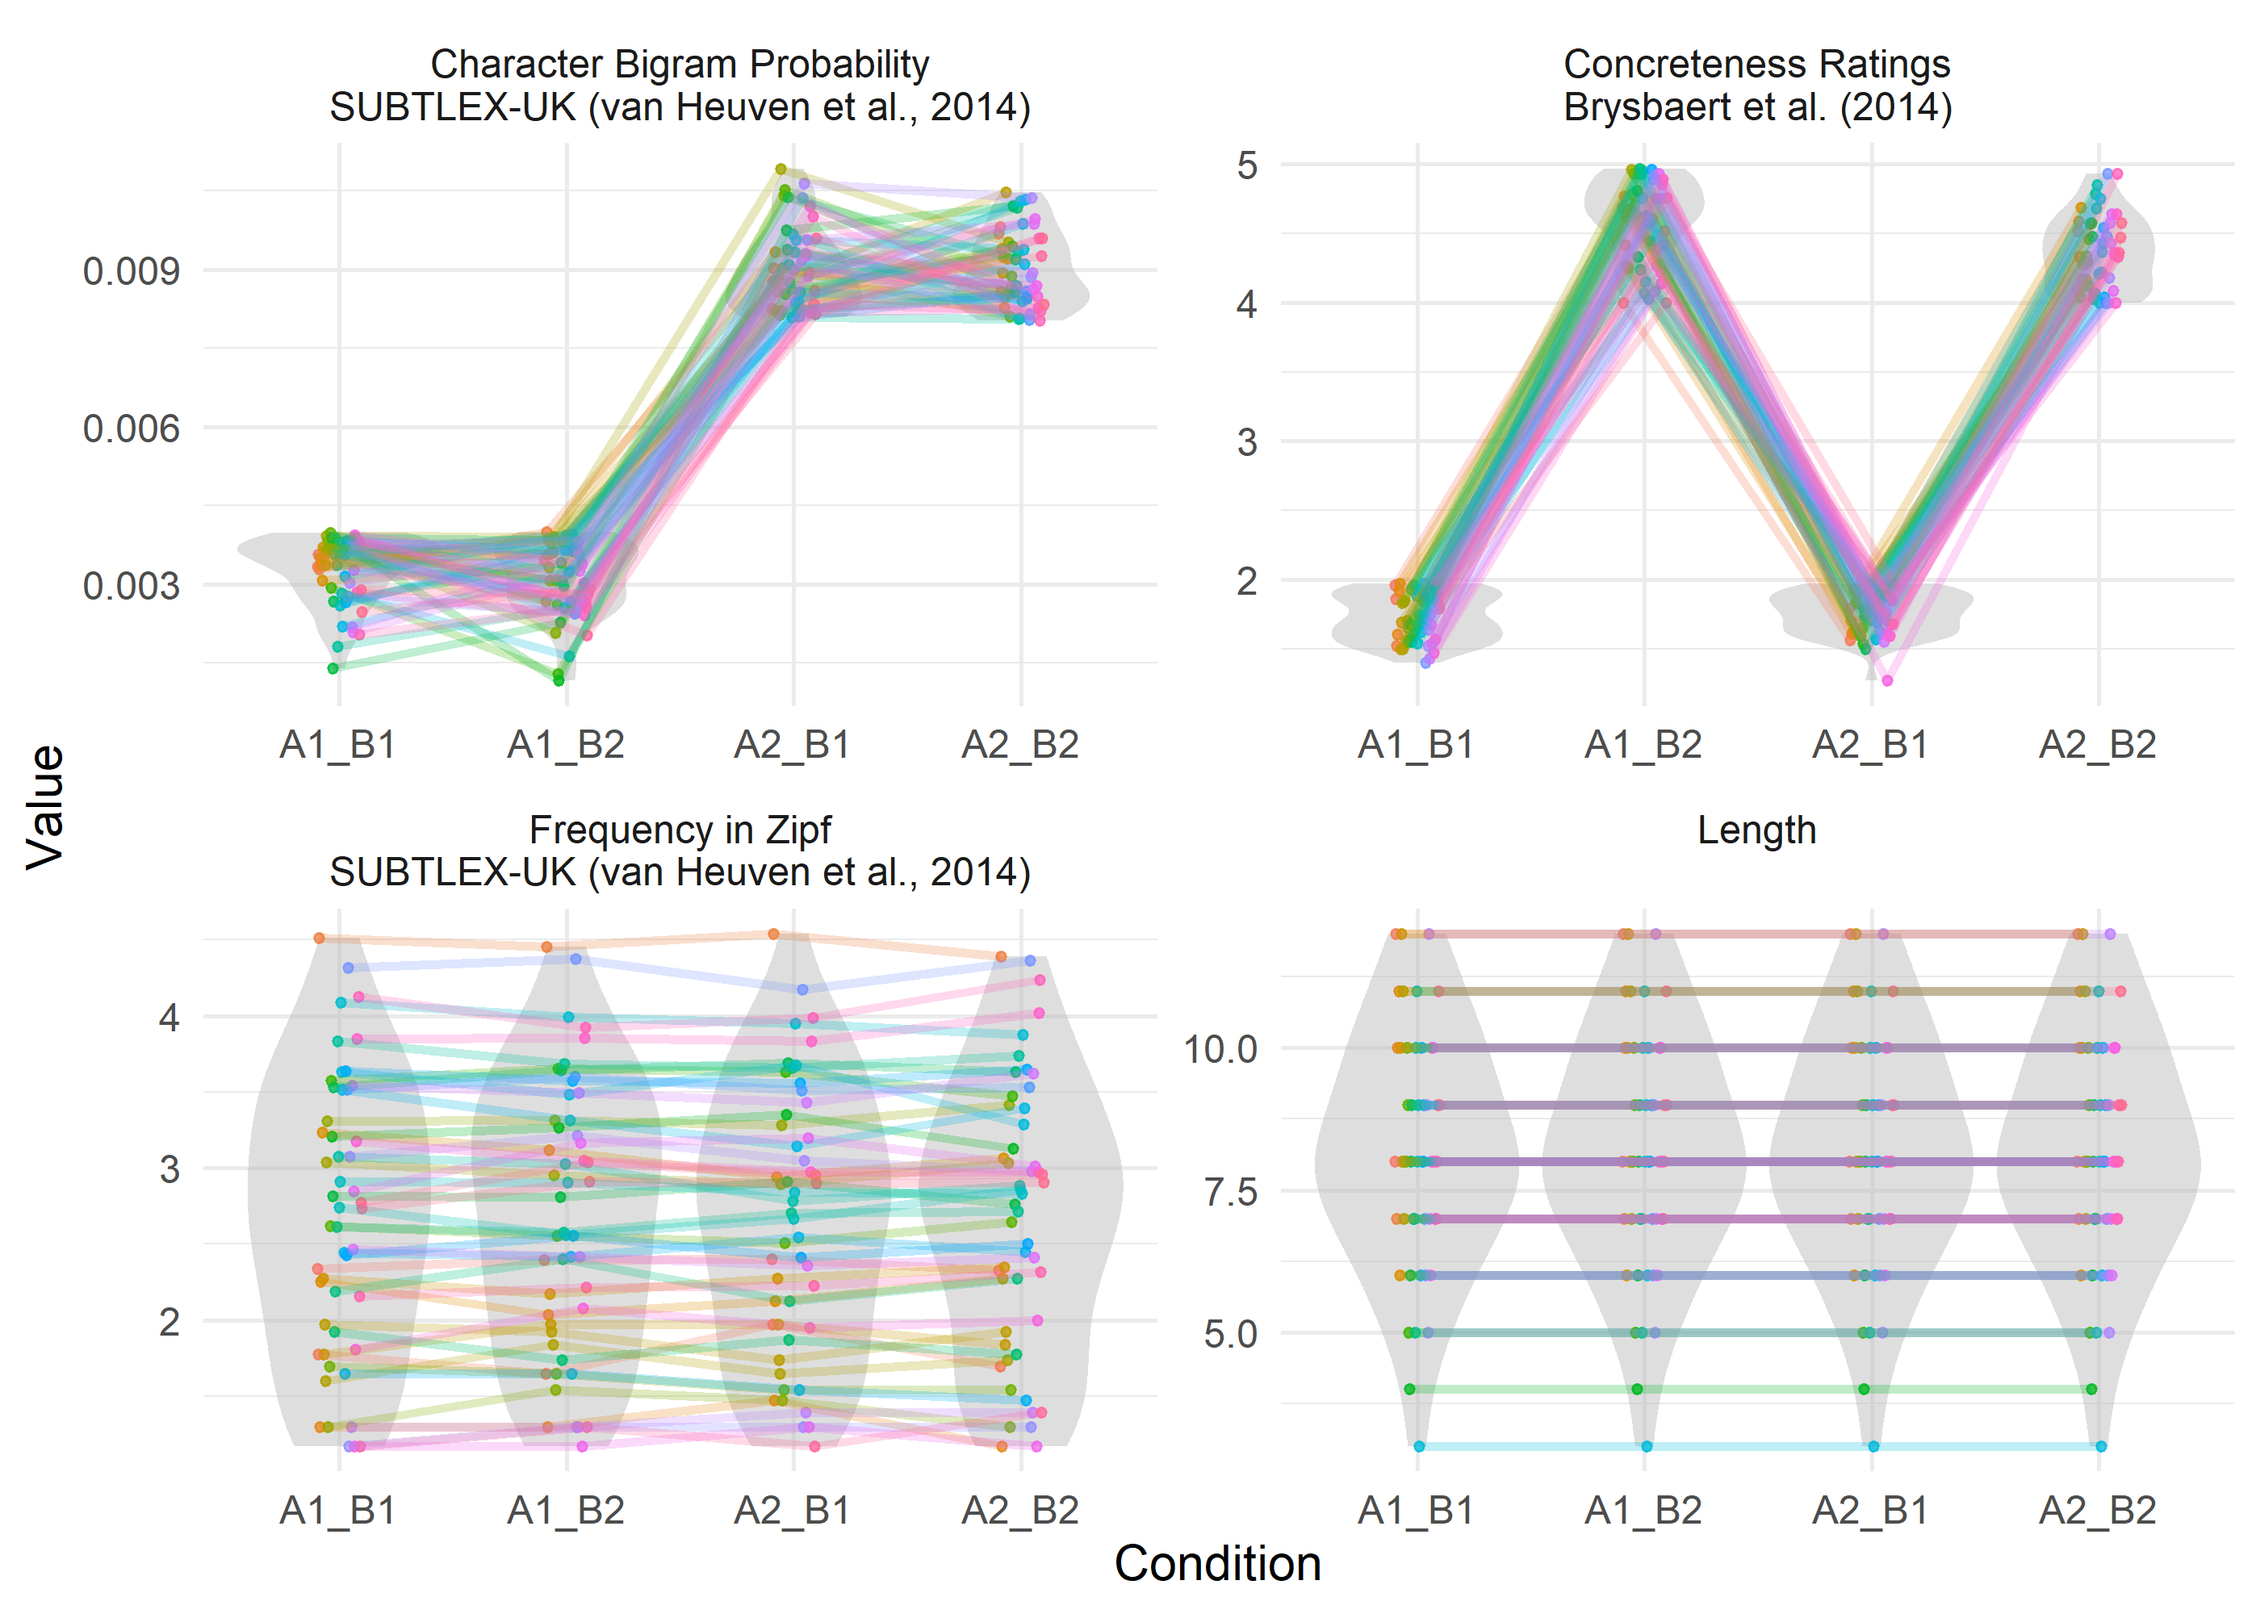
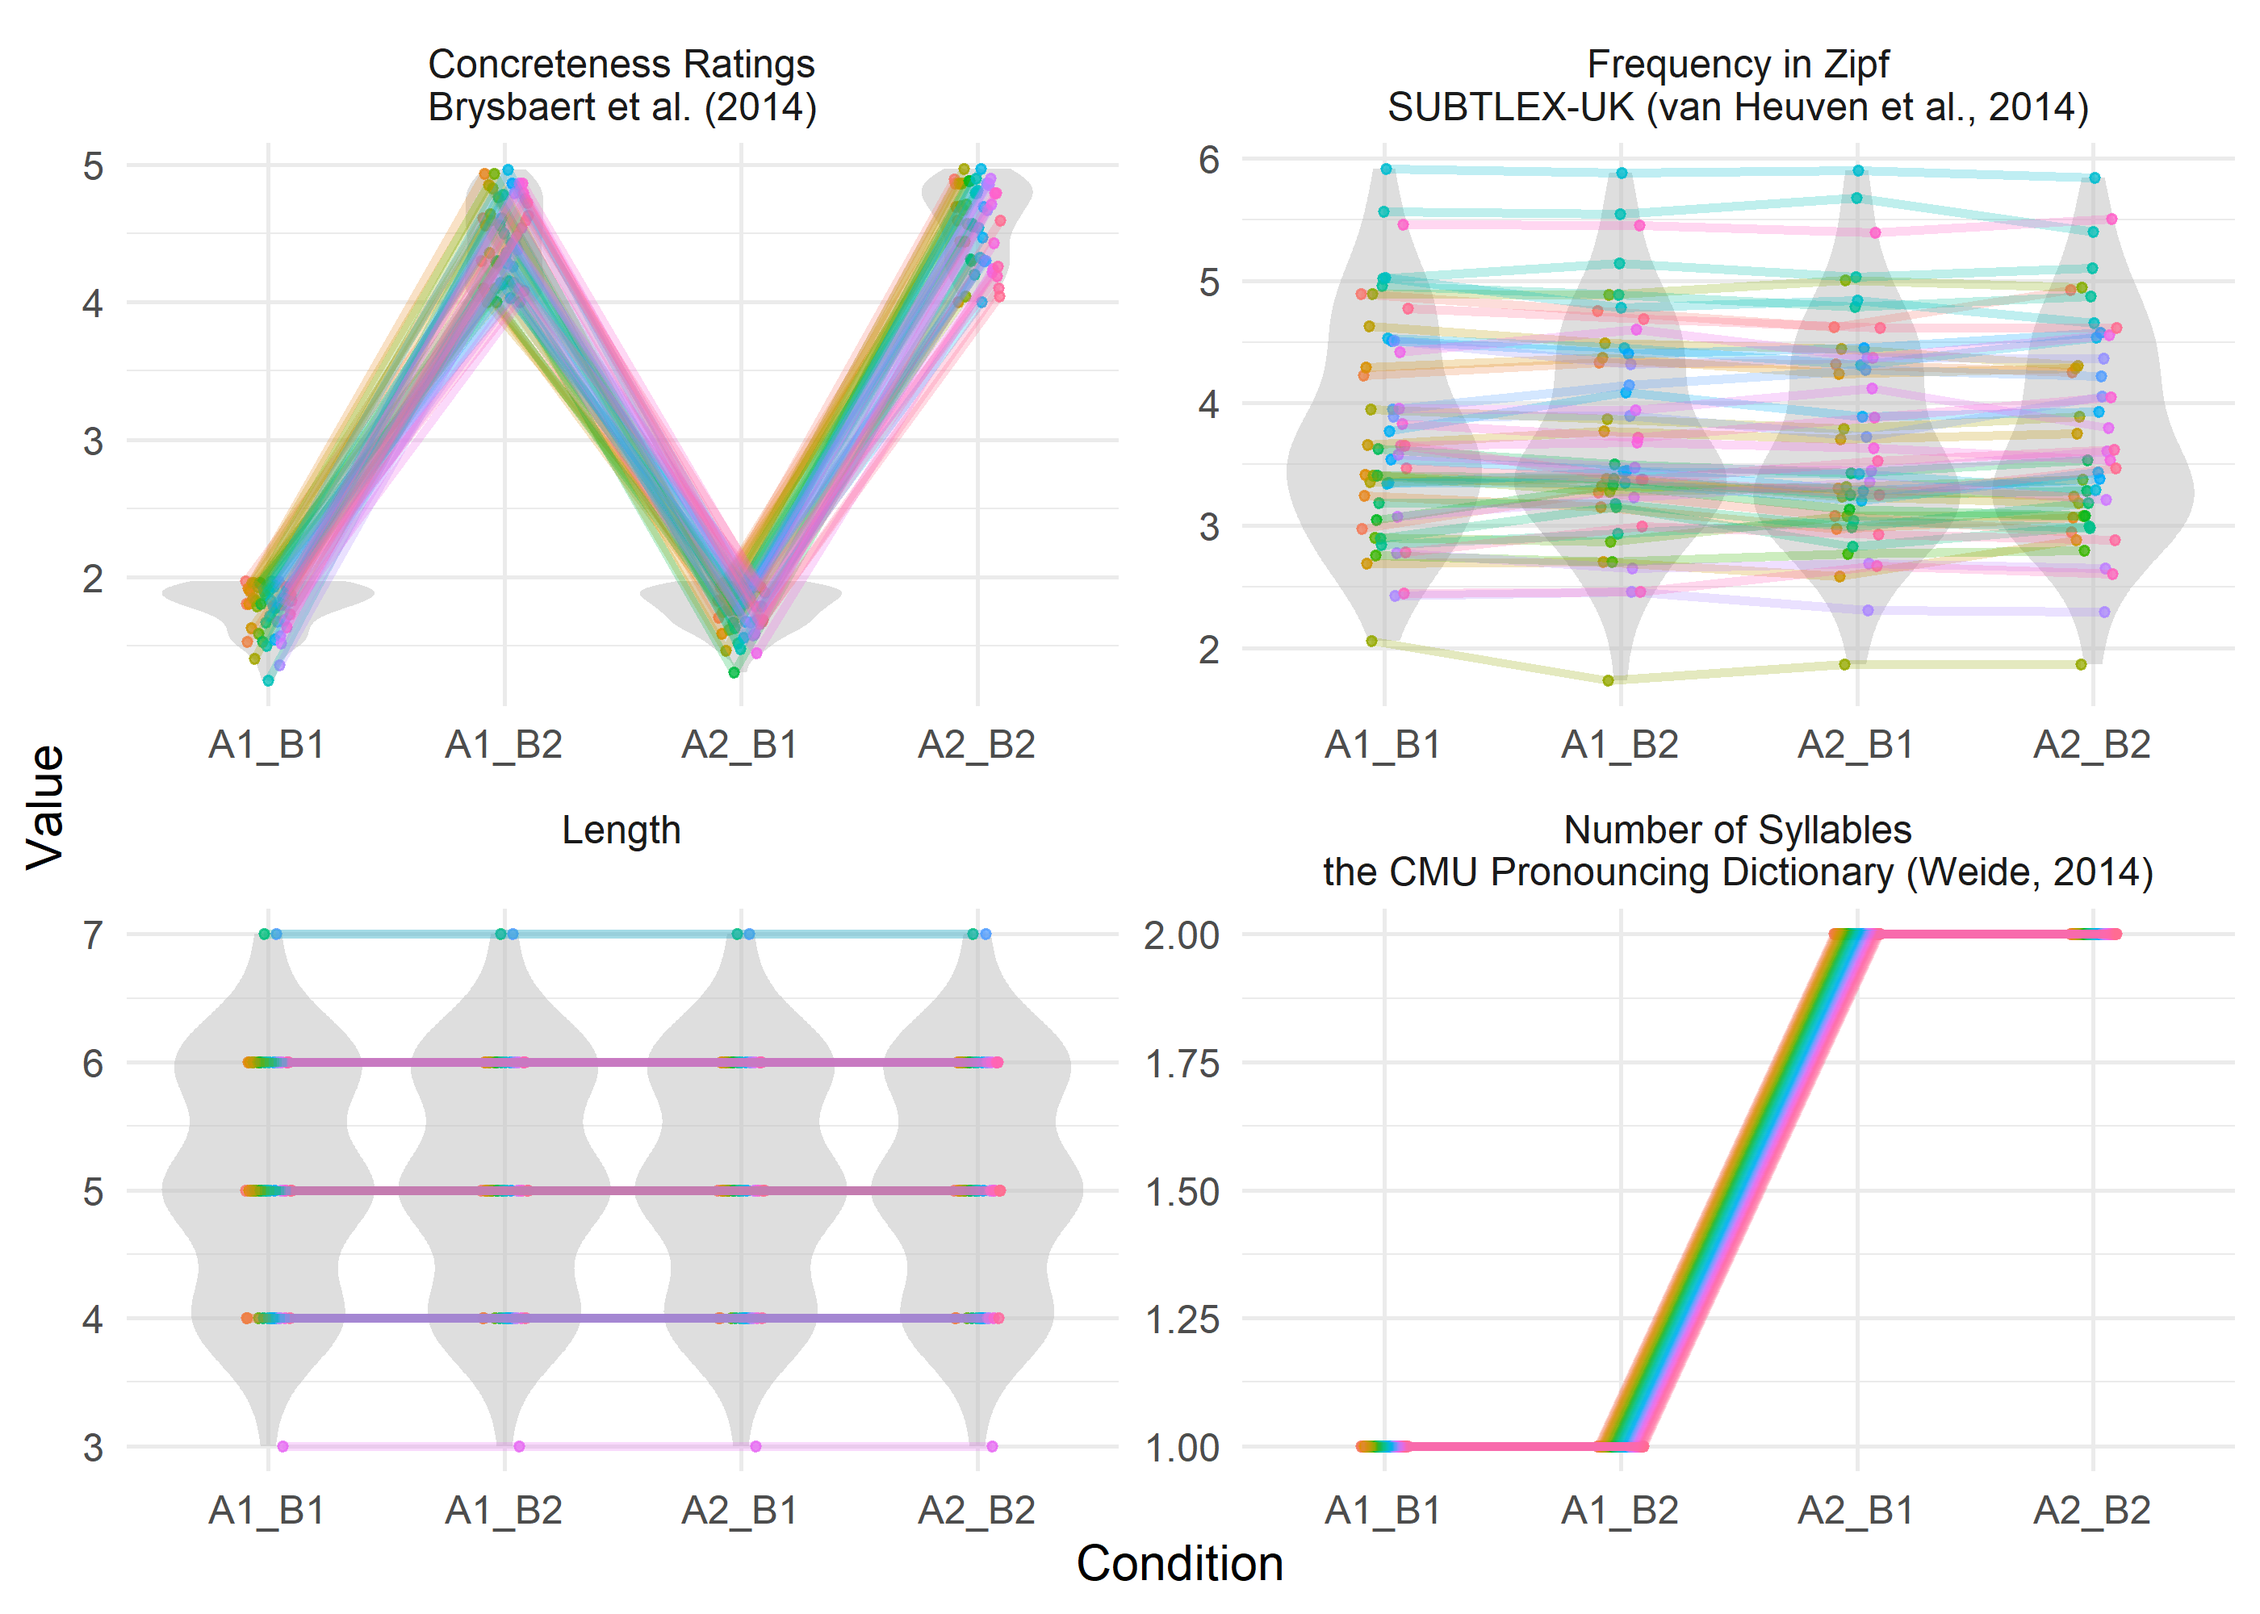
fix minimal example

diff --git a/README.md b/README.md
@@ -7,7 +7,7 @@
 
 [![Lifecycle:
 stable](https://img.shields.io/badge/lifecycle-stable-brightgreen.svg)](https://www.tidyverse.org/lifecycle/#stable)
-[![Version: 0.2.3](https://img.shields.io/badge/version-0.2.3-blue.svg)](https://github.com/JackEdTaylor/LexOPS/releases)
+[![Version: 0.2.4](https://img.shields.io/badge/version-0.2.4-blue.svg)](https://github.com/JackEdTaylor/LexOPS/releases)
 [![DOI: 10.3758/s13428-020-01389-1](https://zenodo.org/badge/DOI/10.3758/s13428-020-01389-1.svg)](https://doi.org/10.3758/s13428-020-01389-1)
 <!-- badges: end -->
 
@@ -39,35 +39,23 @@ LexOPS makes it easy to generate matched stimuli in a reproducible way.
 
 ### The “Generate Pipeline”
 
-The following example pipeline generates 50 words (all nouns) per
-condition (200 words in total), for a study with a 2 x 2, concreteness
-(low, high) by bigram probability (low, high) experimental design. Words
-are controlled for by length exactly, and by word frequency within a
-tolerance of ±0.2 Zipf.
+The following example pipeline generates 50 words per condition (200 in
+total), for a study with a 2 x 2, syllables (1, 2) by concreteness (low,
+high) design. Words are matched by length exactly, and by word frequency
+within a tolerance of ±0.2 Zipf.
 
 ``` r
 library(LexOPS)
 
-# generate stimuli
 stim <- lexops %>%
-  subset(PoS.SUBTLEX_UK == "noun") %>%
-  split_by(BG.SUBTLEX_UK, 0.001:0.004 ~ 0.008:0.011) %>%
+  split_by(Syllables.CMU, 1:1 ~ 2:2) %>%
   split_by(CNC.Brysbaert, 1:2 ~ 4:5) %>%
   control_for(Zipf.SUBTLEX_UK, -0.2:0.2) %>%
   control_for(Length) %>%
   generate(n = 50, match_null = "balanced")
 ```
 
-    #> Generated 5/50 (10%). 6 total iterations, 0.83 success rate.
-    #> Generated 10/50 (20%). 12 total iterations, 0.83 success rate.
-    #> Generated 15/50 (30%). 19 total iterations, 0.79 success rate.
-    #> Generated 20/50 (40%). 27 total iterations, 0.74 success rate.
-    #> Generated 25/50 (50%). 39 total iterations, 0.64 success rate.
-    #> Generated 30/50 (60%). 46 total iterations, 0.65 success rate.
-    #> Generated 35/50 (70%). 52 total iterations, 0.67 success rate.
-    #> Generated 40/50 (80%). 84 total iterations, 0.48 success rate.
-    #> Generated 45/50 (90%). 100 total iterations, 0.45 success rate.
-    #> Generated 50/50 (100%). 117 total iterations, 0.43 success rate.
+    #> Generated 50/50 (100%). 157 total iterations, 0.32 success rate.
 
 A preview of what was generated:
 
@@ -78,13 +66,13 @@ stim %>%
   knitr::kable()
 ```
 
-| item\_nr | A1\_B1       | A1\_B2       | A2\_B1       | A2\_B2       | match\_null |
-| -------: | :----------- | :----------- | :----------- | :----------- | :---------- |
-|        1 | smugness     | dumbbell     | monotony     | fastener     | A1\_B2      |
-|        2 | gracefulness | spectrograph | predominance | thundercloud | A1\_B1      |
-|        3 | purpose      | cricket      | version      | chamber      | A1\_B1      |
-|        4 | imprudence   | plexiglass   | creepiness   | cowcatcher   | A1\_B1      |
-|        5 | agoraphobia  | brushstroke  | insinuation  | parishioner  | A2\_B1      |
+| item\_nr | A1\_B1 | A1\_B2 | A2\_B1 | A2\_B2 | match\_null |
+| -------: | :----- | :----- | :----- | :----- | :---------- |
+|        1 | fresh  | frame  | basis  | river  | A1\_B2      |
+|        2 | gist   | cuff   | akin   | tuba   | A2\_B1      |
+|        3 | fate   | slip   | rely   | lily   | A1\_B1      |
+|        4 | shrewd | wrench | equate | muzzle | A2\_B2      |
+|        5 | famed  | reins  | ethic  | totem  | A2\_B1      |
 
 ### Review Generated Stimuli
 
@@ -109,28 +97,28 @@ long_format(stim) %>%
   knitr::kable()
 ```
 
-| item\_nr | condition | match\_null | string       | Zipf.SUBTLEX\_UK | Length | BG.SUBTLEX\_UK | CNC.Brysbaert |
-| -------: | :-------- | :---------- | :----------- | ---------------: | -----: | -------------: | ------------: |
-|        1 | A1\_B1    | A1\_B2      | smugness     |         2.339188 |      8 |      0.0033250 |          1.96 |
-|        1 | A1\_B2    | A1\_B2      | dumbbell     |         2.394706 |      8 |      0.0034583 |          4.69 |
-|        1 | A2\_B1    | A1\_B2      | monotony     |         2.403306 |      8 |      0.0082586 |          1.79 |
-|        1 | A2\_B2    | A1\_B2      | fastener     |         2.329204 |      8 |      0.0096918 |          4.10 |
-|        2 | A1\_B1    | A1\_B1      | gracefulness |         1.774917 |     12 |      0.0035692 |          1.86 |
-|        2 | A1\_B2    | A1\_B1      | spectrograph |         1.649978 |     12 |      0.0026646 |          4.00 |
-|        2 | A2\_B1    | A1\_B1      | predominance |         1.974489 |     12 |      0.0087761 |          1.56 |
-|        2 | A2\_B2    | A1\_B1      | thundercloud |         1.695736 |     12 |      0.0098056 |          4.52 |
-|        3 | A1\_B1    | A1\_B1      | purpose      |         4.511181 |      7 |      0.0032840 |          1.52 |
-|        3 | A1\_B2    | A1\_B1      | cricket      |         4.452220 |      7 |      0.0039900 |          4.77 |
-|        3 | A2\_B1    | A1\_B1      | version      |         4.536782 |      7 |      0.0090194 |          1.70 |
-|        3 | A2\_B2    | A1\_B1      | chamber      |         4.391917 |      7 |      0.0085878 |          4.59 |
-|        4 | A1\_B1    | A1\_B1      | imprudence   |         1.297796 |     10 |      0.0034965 |          1.60 |
-|        4 | A1\_B2    | A1\_B1      | plexiglass   |         1.297796 |     10 |      0.0035633 |          4.42 |
-|        4 | A2\_B1    | A1\_B1      | creepiness   |         1.473887 |     10 |      0.0082210 |          1.61 |
-|        4 | A2\_B2    | A1\_B1      | cowcatcher   |         1.172857 |     10 |      0.0093999 |          4.33 |
-|        5 | A1\_B1    | A2\_B1      | agoraphobia  |         2.252038 |     11 |      0.0033591 |          1.92 |
-|        5 | A1\_B2    | A2\_B1      | brushstroke  |         2.038158 |     11 |      0.0038485 |          4.27 |
-|        5 | A2\_B1    | A2\_B1      | insinuation  |         2.127099 |     11 |      0.0093339 |          1.63 |
-|        5 | A2\_B2    | A2\_B1      | parishioner  |         2.275519 |     11 |      0.0089277 |          4.04 |
+| item\_nr | condition | match\_null | string | Zipf.SUBTLEX\_UK | Length | Syllables.CMU | CNC.Brysbaert |
+| -------: | :-------- | :---------- | :----- | ---------------: | -----: | ------------: | ------------: |
+|        1 | A1\_B1    | A1\_B2      | fresh  |         4.893319 |      5 |             1 |          1.97 |
+|        1 | A1\_B2    | A1\_B2      | frame  |         4.755413 |      5 |             1 |          4.30 |
+|        1 | A2\_B1    | A1\_B2      | basis  |         4.625308 |      5 |             2 |          1.83 |
+|        1 | A2\_B2    | A1\_B2      | river  |         4.926899 |      5 |             2 |          4.89 |
+|        2 | A1\_B1    | A2\_B1      | gist   |         2.974489 |      4 |             1 |          1.81 |
+|        2 | A1\_B2    | A2\_B1      | cuff   |         3.272077 |      4 |             1 |          4.61 |
+|        2 | A2\_B1    | A2\_B1      | akin   |         3.083126 |      4 |             2 |          1.71 |
+|        2 | A2\_B2    | A2\_B1      | tuba   |         2.951008 |      4 |             2 |          4.86 |
+|        3 | A1\_B1    | A1\_B1      | fate   |         4.224395 |      4 |             1 |          1.53 |
+|        3 | A1\_B2    | A1\_B1      | slip   |         4.332324 |      4 |             1 |          4.10 |
+|        3 | A2\_B1    | A1\_B1      | rely   |         4.318882 |      4 |             2 |          1.93 |
+|        3 | A2\_B2    | A1\_B1      | lily   |         4.253363 |      4 |             2 |          4.69 |
+|        4 | A1\_B1    | A2\_B2      | shrewd |         3.244739 |      6 |             1 |          1.92 |
+|        4 | A1\_B2    | A2\_B2      | wrench |         3.150581 |      6 |             1 |          4.93 |
+|        4 | A2\_B1    | A2\_B2      | equate |         2.976769 |      6 |             2 |          1.93 |
+|        4 | A2\_B2    | A2\_B2      | muzzle |         3.066804 |      6 |             2 |          4.59 |
+|        5 | A1\_B1    | A2\_B1      | famed  |         3.415895 |      5 |             1 |          1.81 |
+|        5 | A1\_B2    | A2\_B1      | reins  |         3.327180 |      5 |             1 |          4.56 |
+|        5 | A2\_B1    | A2\_B1      | ethic  |         3.303191 |      5 |             2 |          1.59 |
+|        5 | A2\_B2    | A2\_B1      | totem  |         3.239804 |      5 |             2 |          4.00 |
 
 ### Shiny App
 
